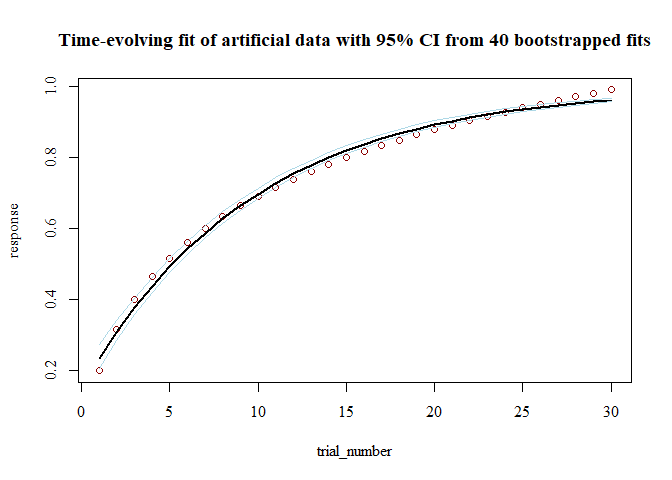
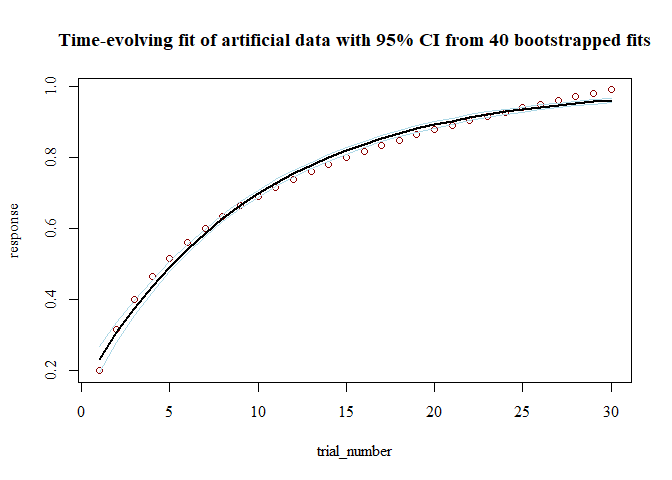
update README

diff --git a/README.md b/README.md
@@ -73,19 +73,19 @@ summary(mod_boot)
     ## 
     ## >> Fit Values:
     ##        Estimate  Q025  Q975 pseudoSE
-    ## pAsym     1.000 0.999 1.000    0.000
-    ## pRate     2.745 2.672 2.808    0.035
-    ## pStart    0.234 0.206 0.274    0.017
+    ## pAsym     0.999 0.999 1.000    0.000
+    ## pRate     2.737 2.650 2.839    0.048
+    ## pStart    0.231 0.197 0.269    0.018
     ## 
     ## >> Goodness-of-fit:
     ##                err  nullErr nPars nObs      BIC  nullBIC    deltaBIC
-    ## bernoulli 13.42297 16.83409     3   30 37.04954 37.06937 -0.01983243
+    ## bernoulli 13.42337 16.83409     3   30 37.05033 37.06937 -0.01903874
     ## 
     ## >> Test of change in nonindependence:
     ##                          rawSpearman modelConditionalSpearman
-    ## response ~ trial_number:          -1              -0.08965517
+    ## response ~ trial_number:          -1              -0.04605117
     ##                          proportionalSpearmanChange pValSpearmanChange
-    ## response ~ trial_number:                 0.08965517                  0
+    ## response ~ trial_number:                 0.04605117                  0
     ##                          pval_KPSS_null pval_KPSS_model
     ## response ~ trial_number:          < .01            > .1
     ## 
@@ -95,10 +95,10 @@ summary(mod_boot)
     ## 
     ## >> Bootstrapped parameter correlations:
     ##        pAsym pStart pRate   err
-    ## pAsym  1.000  0.145 0.182 0.261
-    ## pStart 0.145  1.000 0.380 0.765
-    ## pRate  0.182  0.380 1.000 0.164
-    ## err    0.261  0.765 0.164 1.000
+    ## pAsym  1.000  0.310 0.373 0.229
+    ## pStart 0.310  1.000 0.829 0.740
+    ## pRate  0.373  0.829 1.000 0.554
+    ## err    0.229  0.740 0.554 1.000
 
 Fitting multiple models
 =======================
@@ -135,15 +135,15 @@ summary(mod_4group)
     ## 
     ## >> Overall effects:
     ##             pAsym     pStart      pRate
-    ## mean   0.14925281 0.01637211 3.83353278
-    ## stdErr 0.03934306 0.01059987 0.02426971
+    ## mean   0.14923129 0.01638088 3.83346587
+    ## stdErr 0.03933887 0.01060213 0.02425942
     ## 
-    ##                 err    nullErr nPars nObs      Fval         Pval   Rsquared
-    ## mean   3.005698e-04 0.03071614     3   30 1691.9836 1.110223e-16 0.97598564
-    ## stdErr 6.863298e-05 0.01187769     0    0  653.2264 1.110223e-16 0.01661284
+    ##                 err    nullErr nPars nObs     Fval         Pval   Rsquared
+    ## mean   3.005789e-04 0.03071614     3   30 1692.257 1.110223e-16 0.97598123
+    ## stdErr 6.868056e-05 0.01187769     0    0  653.344 1.110223e-16 0.01661869
     ##                BIC    nullBIC   deltaBIC  linkFun errFun changeFun converged
-    ## mean   -337.330087 -211.91820 -125.41189 identity    ols      expo         1
-    ## stdErr    6.544493   14.35328   19.25969 identity    ols      expo         0
+    ## mean   -337.332009 -211.91820 -125.41381 identity    ols      expo         1
+    ## stdErr    6.548621   14.35328   19.26292 identity    ols      expo         0
     ##        pValSpearmanChange
     ## mean                    0
     ## stdErr                  0
@@ -154,21 +154,21 @@ summary(mod_4group)
     ## >> Parameter Pearson product-moment correlations:
 
     ##         pAsym pStart  pRate
-    ## pAsym   1.000  1.000 -0.757
-    ## pStart  1.000  1.000 -0.764
-    ## pRate  -0.757 -0.764  1.000
+    ## pAsym   1.000  1.000 -0.755
+    ## pStart  1.000  1.000 -0.762
+    ## pRate  -0.755 -0.762  1.000
 
 Using a more typical regression framework
 =========================================
 
-In some cases (such as `mod_simple` above), similar performance can be attained using a nonlinear transformation of time as a predictor in a linear model. This method is plotted in blue on top of the `mod_simple` results, with clearly near-identical fits.
+In some cases (such as `mod_simple` above), similar performance can be attained using a nonlinear transformation of time as a predictor in a linear model. This method is plotted in green on top of the `mod_simple` results, with clearly near-identical fits.
 
 ``` r
 mod_lm <- TElm(response~trial_number,dat_simple,timeVar = 'trial_number')
 
 plot(mod_simple)
 
-lines(dat_simple$trial_number,fitted(mod_lm),col='green',lty=2)
+lines(dat_simple$trial_number,fitted(mod_lm),col='green',lty=2,lwd=2)
 ```
 
 ![](README_files/figure-markdown_github/TElm-1.png)
@@ -177,7 +177,7 @@ TElm parameter estimates:
 
 |  X.Intercept.|  trial\_number|  log2\_rate|
 |-------------:|--------------:|-----------:|
-|          3.54|          -2.66|       2.897|
+|         3.526|         -2.655|       2.873|
 
 TEfit parameter estimates:
 
